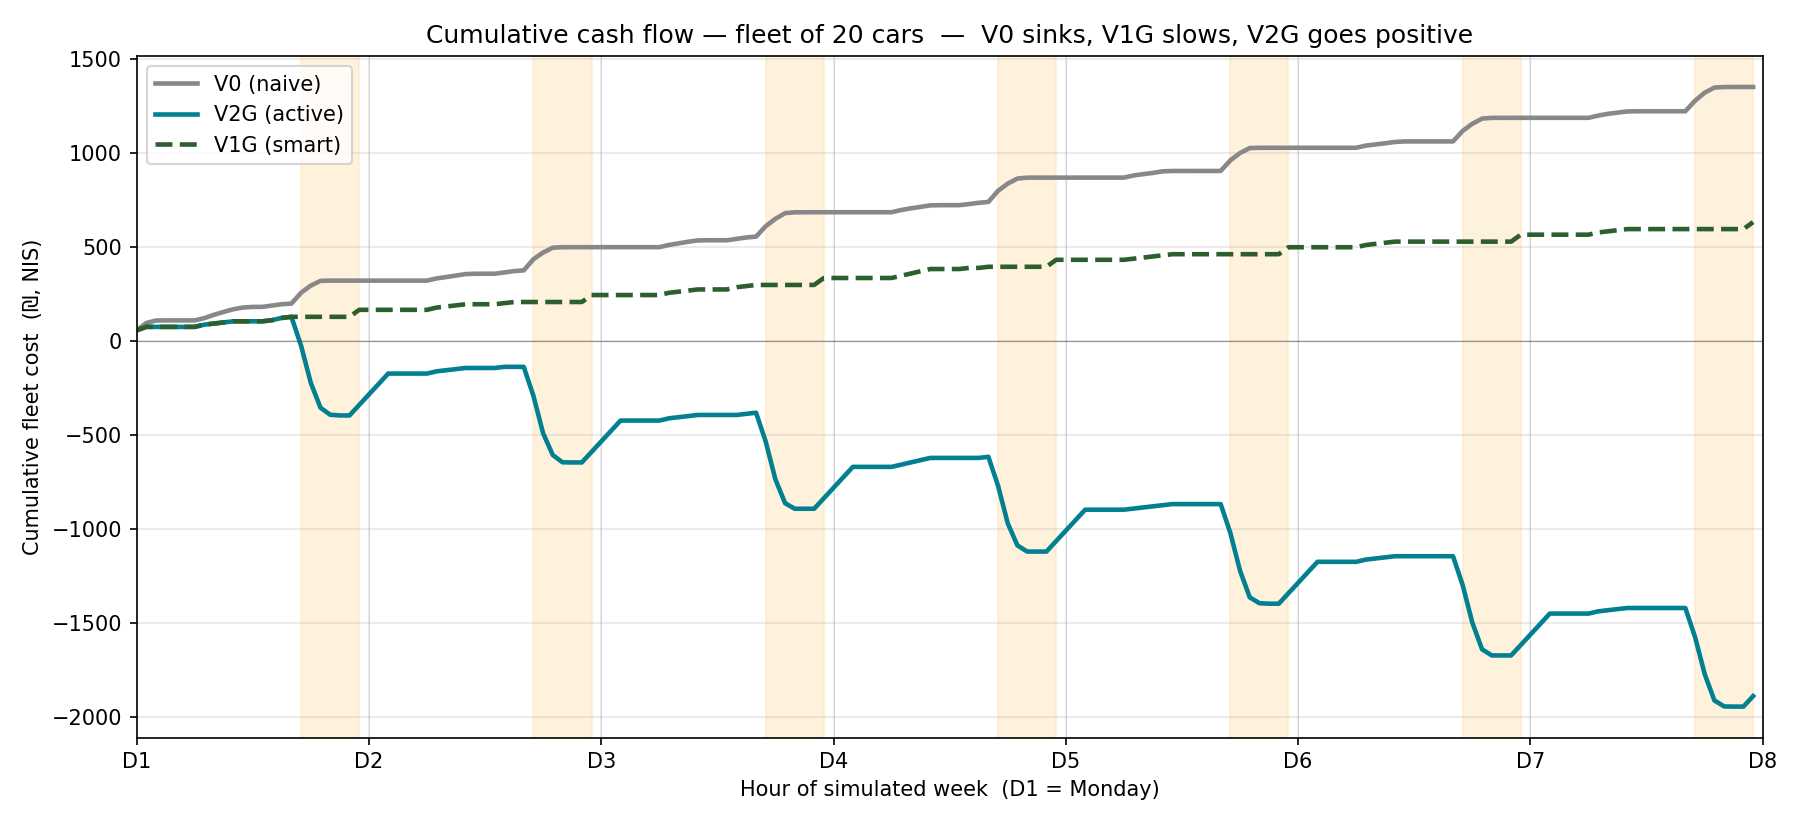
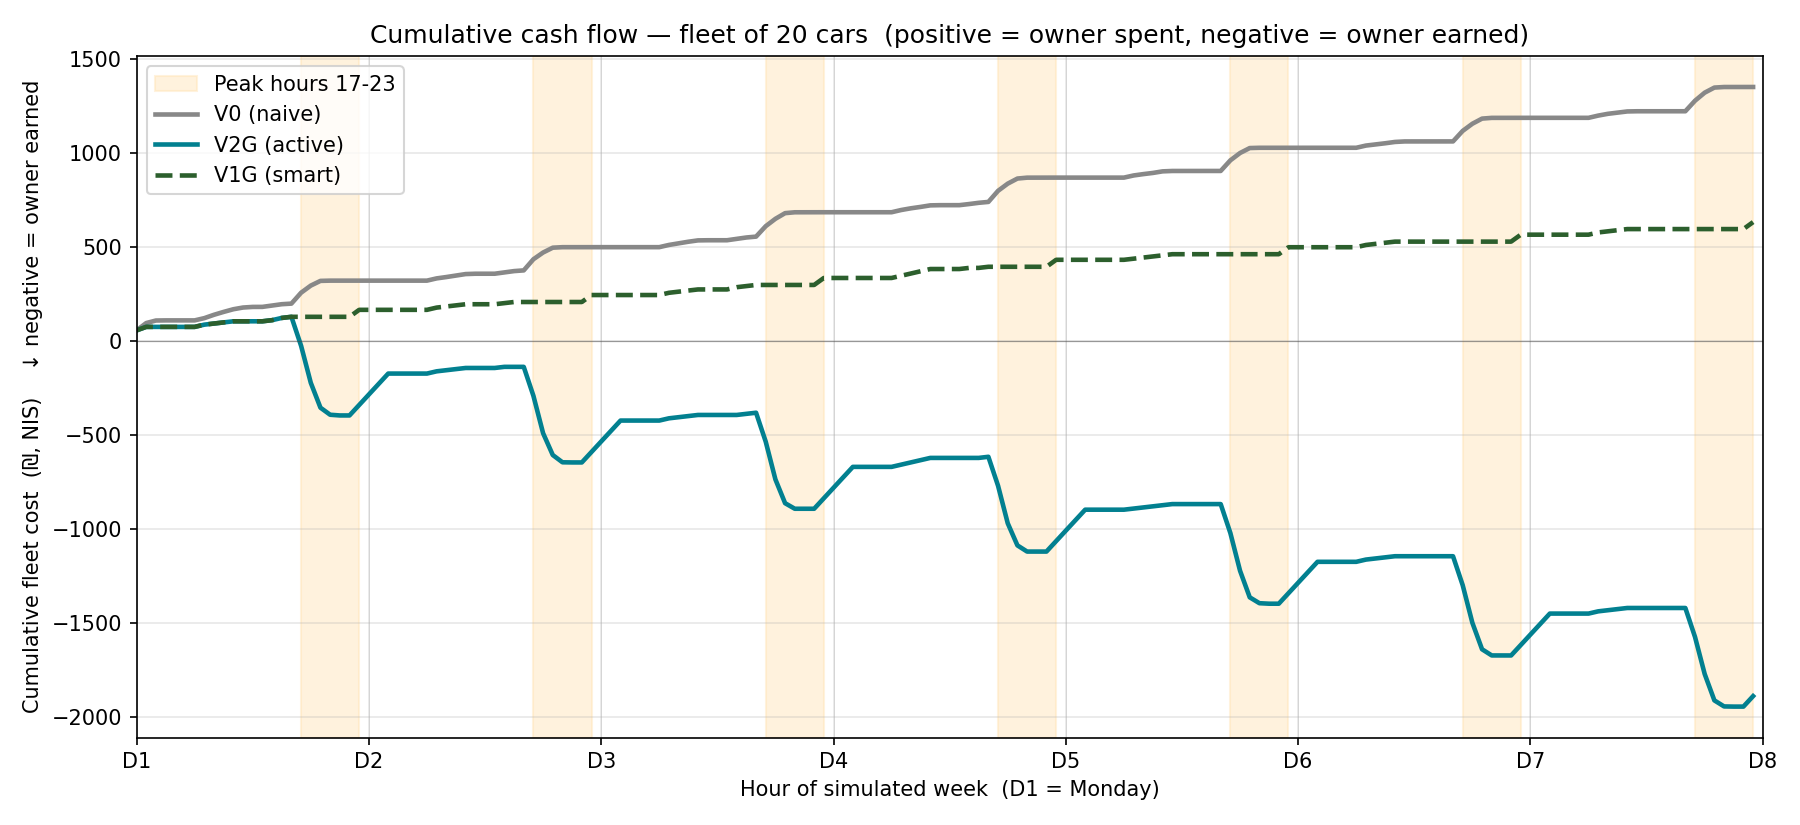
Tier 1 done — 20-car fleet, 4 new charts (single/batch/fleet/money), peak-band labels, fixed cumulative chart title

diff --git a/src/plot_demo.py b/src/plot_demo.py
@@ -83,7 +83,8 @@ def read_grouped_by_agent(csv_path: Path) -> dict[int, list[dict]]:
 
 
 def add_peak_bands(ax) -> None:
-    """Shade the daily peak-hour window (17-23) for each of the 7 days."""
+    """Shade the daily peak-hour window (17-23) for each of the 7 days.
+    The first band gets a label so it appears in the legend."""
     for d in range(7):
         ax.axvspan(
             d * 24 + PEAK_DISCHARGE_START_HOUR,
@@ -91,6 +92,7 @@ def add_peak_bands(ax) -> None:
             color=PEAK_BAND_COLOUR,
             alpha=0.45,
             zorder=0,
+            label="Peak hours 17-23" if d == 0 else None,
         )
 
 
@@ -309,9 +311,10 @@ def plot_cumulative_money() -> None:
     ax.axhline(0, color="#444444", linewidth=0.6, linestyle="-", alpha=0.5)
 
     ax.set_xlabel("Hour of simulated week  (D1 = Monday)")
-    ax.set_ylabel("Cumulative fleet cost  (₪, NIS)")
+    ax.set_ylabel("Cumulative fleet cost  (₪, NIS)    ↓ negative = owner earned")
     ax.set_title(
-        f"Cumulative cash flow — fleet of 20 cars  —  V0 sinks, V1G slows, V2G goes positive"
+        "Cumulative cash flow — fleet of 20 cars  "
+        "(positive = owner spent, negative = owner earned)"
     )
     ax.set_xticks([d * 24 for d in range(8)])
     ax.set_xticklabels([f"D{d}" for d in range(1, 9)])
